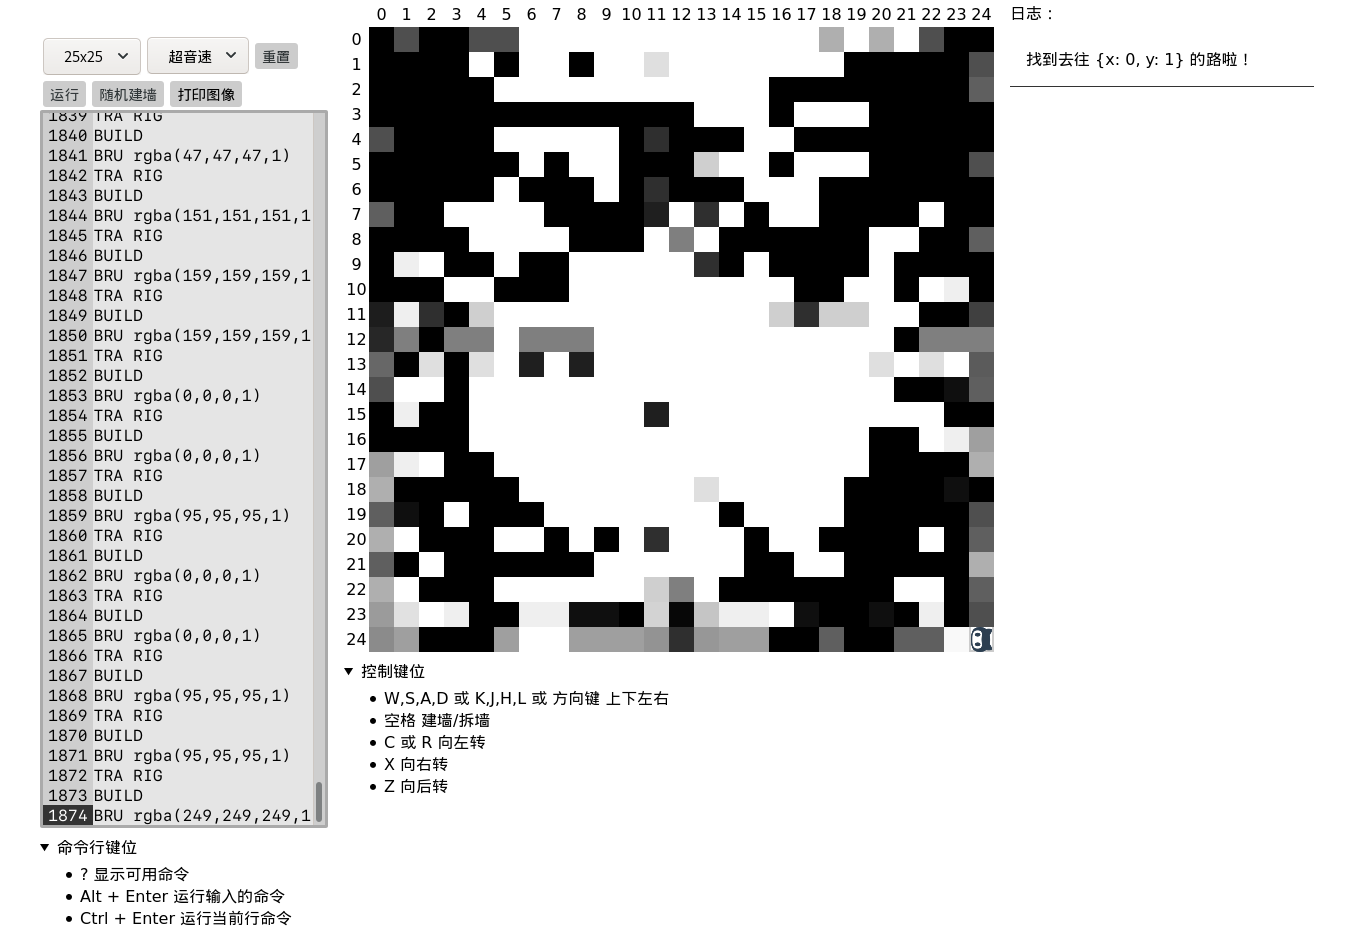
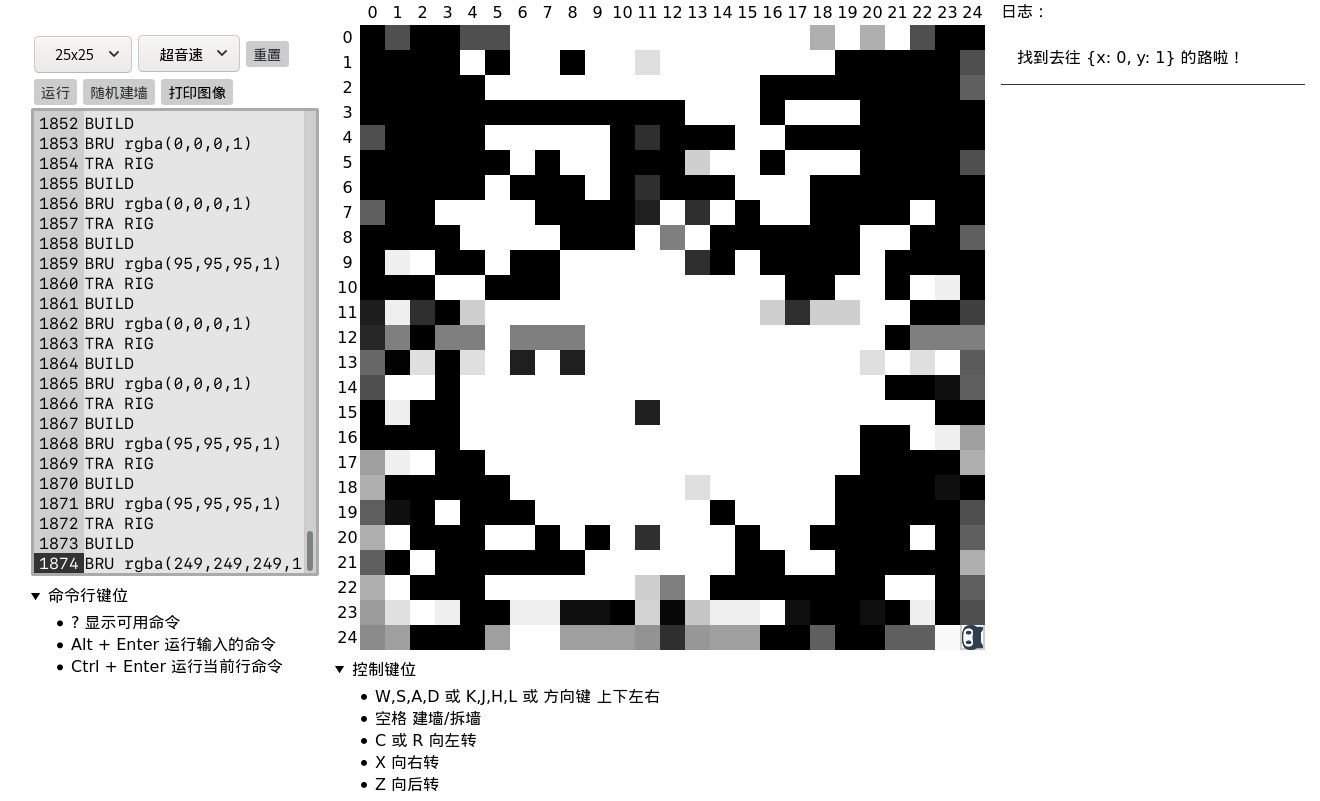
Fixed print graph bug
changed relative direction to absolute direction

Changed region(s): [[0.0, 0.0, 0.9629, 0.9988], [0.4659, 0.4994, 0.528, 0.5306]]

diff --git a/src/2016/36/js/commands.js b/src/2016/36/js/commands.js
@@ -23,6 +23,30 @@ export const commands = {
     desc: "旋转 180 deg",
   },
 
+  turnNorth: {
+    id: "TUN NOR",
+    pattern: /^TUN\sNOR$/i,
+    desc: "向北旋转"
+  },
+
+  turnSouth: {
+    id: "TUN SOU",
+    pattern: /^TUN\sSOU$/i,
+    desc: "向南旋转"
+  },
+
+  turnEast: {
+    id: "TUN EAS",
+    pattern: /^TUN\sEAS$/i,
+    desc: "向东旋转"
+  },
+
+  turnWest: {
+    id: "TUN WST",
+    pattern: /^TUN\sWST$/i,
+    desc: "向西旋转"
+  },
+
   translateWest: {
     id: "TRA LEF $NUM",
     pattern: /^TRA\sLEF\s?(\d+)?$/i,

diff --git a/src/2016/36/js/app.js b/src/2016/36/js/app.js
@@ -98,7 +98,7 @@ export class App {
     if (files && files.length > 0) {
       const data = await readImage(files[0], ...this._grid.size)
       this._reset()
-      const inputs = ["MOV TO 0,1", "TUN BAC"]
+      const inputs = ["MOV TO 0,1", "TUN NOR"]
 
       const everythingButLastRow = initial(data)
 

diff --git a/src/2016/36/README.md b/src/2016/36/README.md
@@ -4,7 +4,7 @@
 ## demo: [在线演示](https://evls-practices.github.io/IFE/src/2016/36/index.html)
 ## [ife 链接](http://ife.baidu.com/2016/task/detail?taskId=36)
 
-![](./screenshot.jpg)
+![](./screenshot.png)
 
 <dl>
 	<dt>面向人群：</dt>
